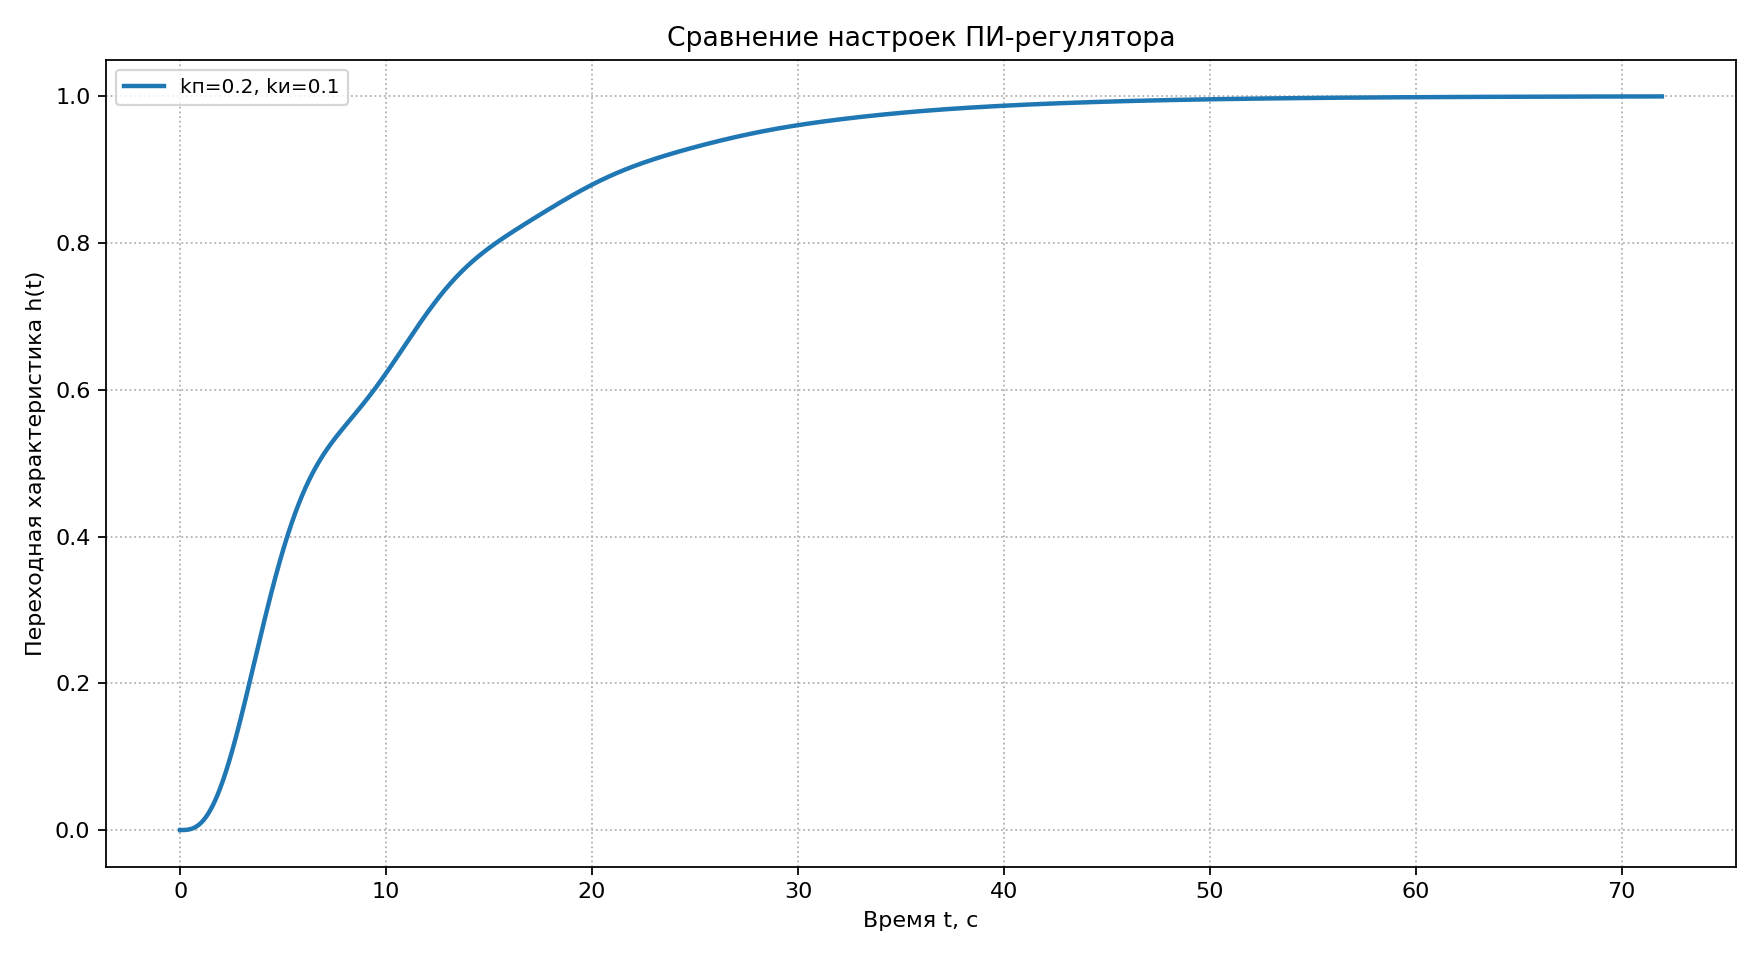
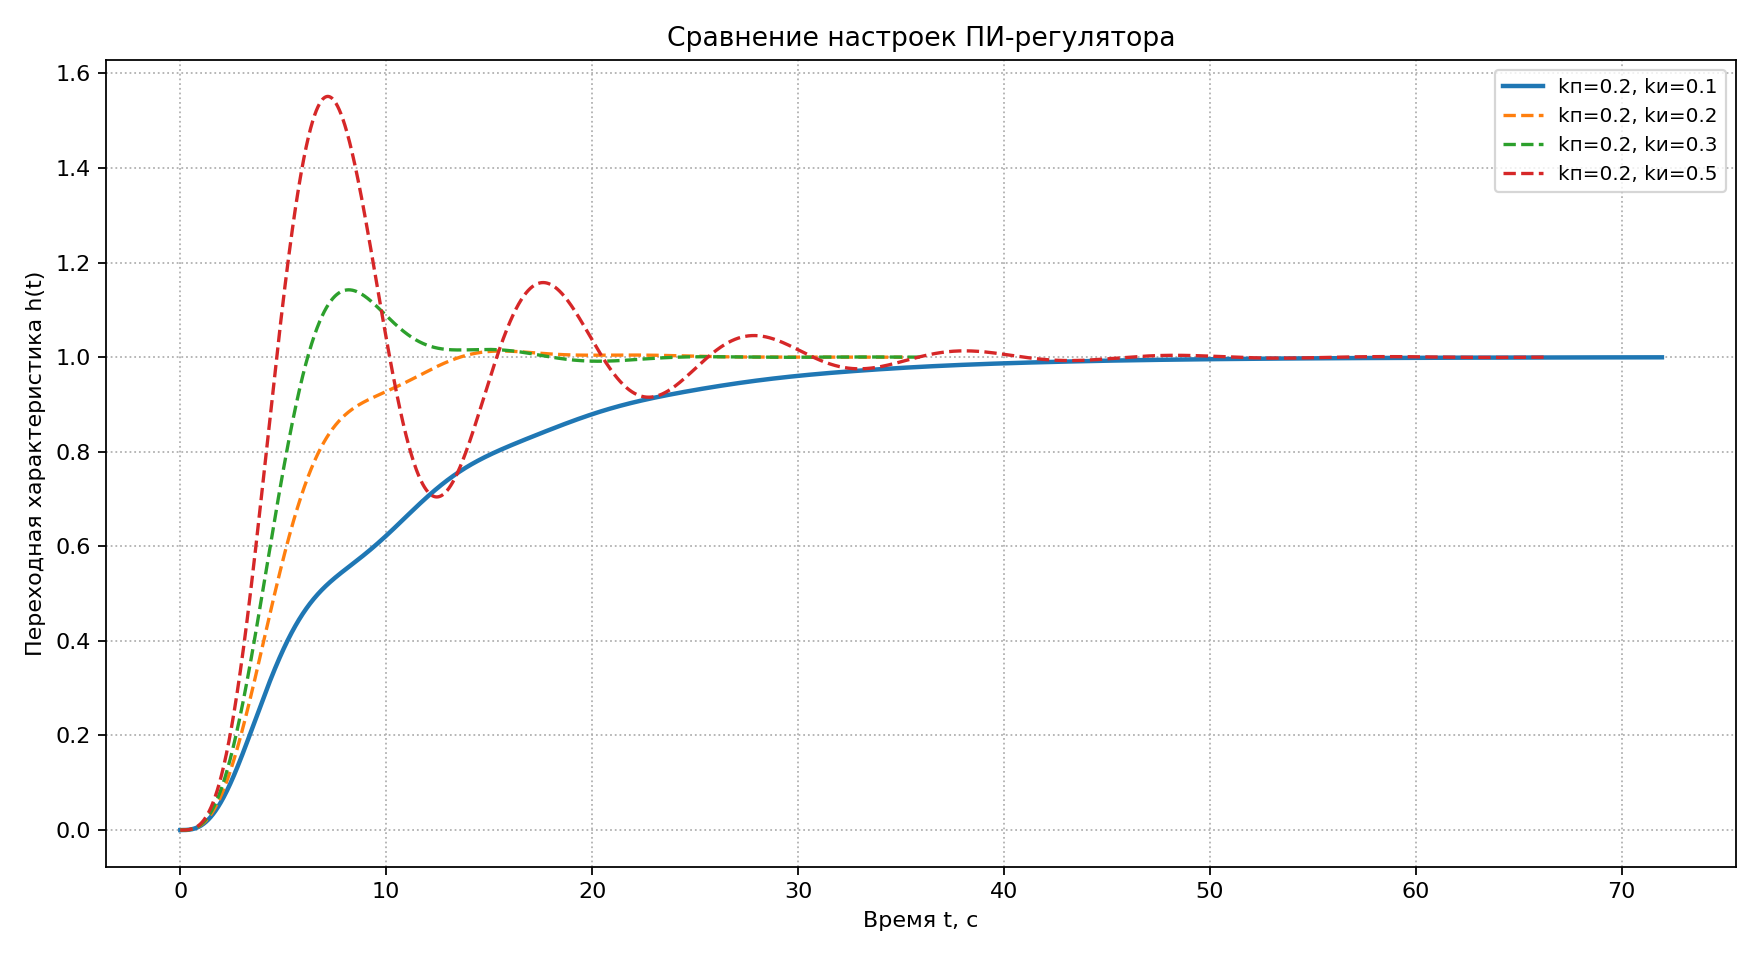
ченджи под тупорылые правила михило

diff --git a/lab3/lab3.py b/lab3/lab3.py
@@ -1,11 +1,10 @@
 """Лабораторная № 3, вариант 10: качество непрерывных линейных САУ.
 
-Запуск: python lab3/lab3.py [--no-show] [--output КАТАЛОГ]
+Запуск: python lab3/lab3.py
 Первое значение параметра — основной вариант, остальные — сравнения.
-Результаты: таблица 3.1 (CSV), 3 общих и 10 отдельных графиков (PNG).
+Результаты: таблица 3.1 (CSV), 3 общих и отдельные графиков (PNG).
 """
 
-import argparse
 import csv
 import sys
 from dataclasses import dataclass
@@ -207,6 +206,30 @@ class SystemPlotter:
         ax.grid(True, linestyle=":")
         ax.legend(fontsize=9)
 
+    def plot_all(self, systems, show=True):
+        """Рассчитать все варианты, сохранить таблицу и построить графики."""
+        analyzer = QualityAnalyzer(corridor=self.corridor)
+        all_results = []
+        for system in systems:
+            variants = [system]
+            for _, _, alternative in system.comparison_systems():
+                variants.append(alternative)
+
+            group = []
+            for variant in variants:
+                group.append(analyzer.analyze(variant))
+            all_results.extend(group)
+            self.plot_group(group)
+
+        save_table(all_results, self.output_dir)
+        print_best_settings(all_results)
+        print(f"\nPNG и CSV: {self.output_dir.resolve()}")
+        if show:
+            plt.show()
+        else:
+            plt.close('all')
+        return all_results
+
     def plot_group(self, results):
         fig, ax = plt.subplots(figsize=(11, 6))
         for i, result in enumerate(results):
@@ -257,51 +280,73 @@ def save_table(results, output_dir):
         print(' | '.join(value.ljust(width) for value, width in zip(row, widths)))
 
 
-def main(argv=None):
-    if hasattr(sys.stdout, 'reconfigure'):
-        sys.stdout.reconfigure(encoding='utf-8')
-    parser = argparse.ArgumentParser(description=__doc__)
-    parser.add_argument('--no-show', action='store_true', help='Сохранить графики без открытия окон')
-    parser.add_argument('--output', type=Path, default=Path(__file__).resolve().parent / 'results')
-    args = parser.parse_args(argv)
-    a0 = a1 = a2 = 3.
-    kg = a1 * a2 / a0 - 1
-    print("Лабораторная № 3. Вариант 10")
-    print(f"kг = a1·a2/a0 − 1 = {a1:g}·{a2:g}/{a0:g} − 1 = {kg:g}")
-    print("Коридор 5%: |h(t) − hуст| ≤ 0.05|hуст|; учитывается последний выход.")
-    kp_pi = .1 * kg
-    ki_max = (1 + kp_pi) * (a1 * a2 - a0 * (1 + kp_pi)) / a1**2
-    print(f"ПИ, критерий Гурвица: 0 < kи < (1+kп)[a1·a2−a0(1+kп)]/a1² = {ki_max:g}")
-    systems = [
-        ControlSystem('Исследование П-регулятора', 'P', a0, a1, a2,
-                      kp=[alpha * kg for alpha in (.1, .3, .5, .7)]),
-        ControlSystem('Исследование ПД-регулятора', 'PD', a0, a1, a2,
-                      kp=.9 * kg, kd=[.5, 1, 2, 4, 8]),
-        ControlSystem('Исследование ПИ-регулятора', 'PI', a0, a1, a2, kp=kp_pi, ki=.1),
-    ]
-    analyzer = QualityAnalyzer()
-    plotter = SystemPlotter(args.output, analyzer.corridor)
-    all_results = []
-    for system in systems:
-        group = [analyzer.analyze(item) for item in
-                 [system] + [alt for _, _, alt in system.comparison_systems()]]
-        all_results.extend(group)
-        plotter.plot_group(group)
-    save_table(all_results, args.output)
+def print_best_settings(results):
+    """Вывести настройки с минимальными показателями, включая равные результаты."""
     print("\nЛучшие исследованные настройки:")
-    for attr, label in [('t_reg', 'Минимальное tр'), ('overshoot', 'Минимальное σ'), ('error', 'Минимальная |e∞|')]:
-        best = min(abs(getattr(r, attr)) for r in all_results)
-        for r in all_results:
-            if np.isclose(abs(getattr(r, attr)), best, rtol=1e-7, atol=1e-9):
-                print(f"{label}: {r.system.kind}, {r.system.param_label()} → {best:.6f}")
-    print(f"\nPNG и CSV: {args.output.resolve()}")
-    if args.no_show:
-        plt.close('all')
-    else:
-        plt.show()
-    return all_results
+    indicators = [
+        ('t_reg', 'Минимальное tр'),
+        ('overshoot', 'Минимальное σ'),
+        ('error', 'Минимальная |e∞|'),
+    ]
+    for attr, label in indicators:
+        best = min(abs(getattr(result, attr)) for result in results)
+        for result in results:
+            if np.isclose(abs(getattr(result, attr)), best, rtol=1e-7, atol=1e-9):
+                system = result.system
+                print(f"{label}: {system.kind}, {system.param_label()} → {best:.6f}")
 
 
 if __name__ == '__main__':
-    main()
+    if hasattr(sys.stdout, 'reconfigure'):
+        sys.stdout.reconfigure(encoding='utf-8')
 
+    # Исходные данные варианта 10.
+    a0 = 3.0
+    a1 = 3.0
+    a2 = 3.0
+    kg = a1 * a2 / a0 - 1
+
+    # Коэффициенты регуляторов: первое значение — основное, остальные — сравнения.
+    kp_p = [0.1 * kg, 0.3 * kg, 0.5 * kg, 0.7 * kg]
+    kp_pd = 0.9 * kg
+    kd = [0.5, 1.0, 2.0, 4.0, 8.0]
+    kp_pi = 0.1 * kg
+    ki = [0.1, 0.2, 0.3, 0.5]
+
+    print("Лабораторная № 3. Вариант 10")
+    print(f"kг = a1·a2/a0 − 1 = {a1:g}·{a2:g}/{a0:g} − 1 = {kg:g}")
+    print("Коридор 5%: |h(t) − hуст| ≤ 0.05|hуст|; учитывается последний выход.")
+
+    # 1. П-регулятор: меняем пропорциональный коэффициент.
+    p_sys = ControlSystem(
+        name="Исследование П-регулятора",
+        controller_type="P",
+        a0=a0, a1=a1, a2=a2,
+        kp=kp_p,
+    )
+
+    # 2. ПД-регулятор: kp постоянный, меняем kd.
+    pd_sys = ControlSystem(
+        name="Исследование ПД-регулятора",
+        controller_type="PD",
+        a0=a0, a1=a1, a2=a2,
+        kp=kp_pd,
+        kd=kd,
+    )
+
+    # 3. ПИ-регулятор: kp постоянный, сравниваем устойчивые значения ki.
+    pi_sys = ControlSystem(
+        name="Исследование ПИ-регулятора",
+        controller_type="PI",
+        a0=a0, a1=a1, a2=a2,
+        kp=kp_pi,
+        ki=ki,
+    )
+
+    ki_max = (1 + pi_sys.kp) * (a1 * a2 - a0 * (1 + pi_sys.kp)) / a1**2
+    print(f"ПИ, критерий Гурвица: 0 < kи < (1+kп)[a1·a2−a0(1+kп)]/a1² = {ki_max:g}")
+
+    systems = [p_sys, pd_sys, pi_sys]
+    output_dir = Path(__file__).resolve().parent / 'results'
+    plotter = SystemPlotter(output_dir)
+    plotter.plot_all(systems)
